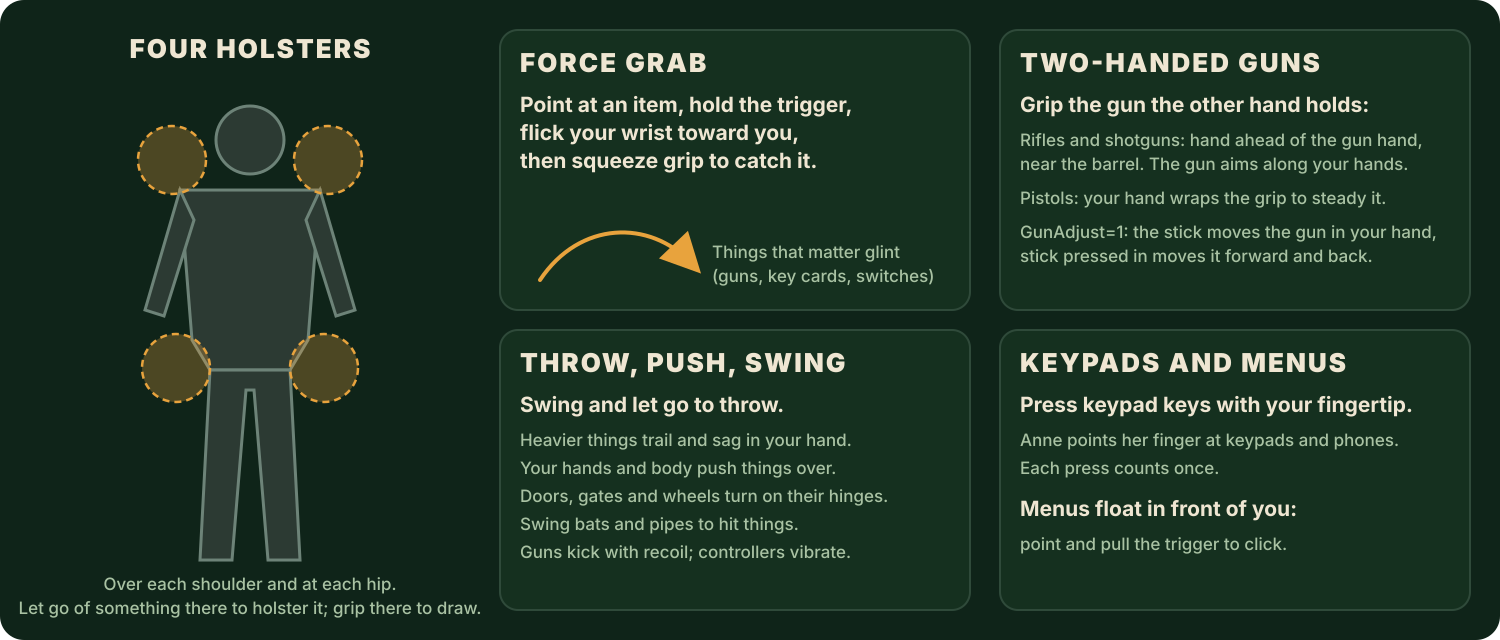
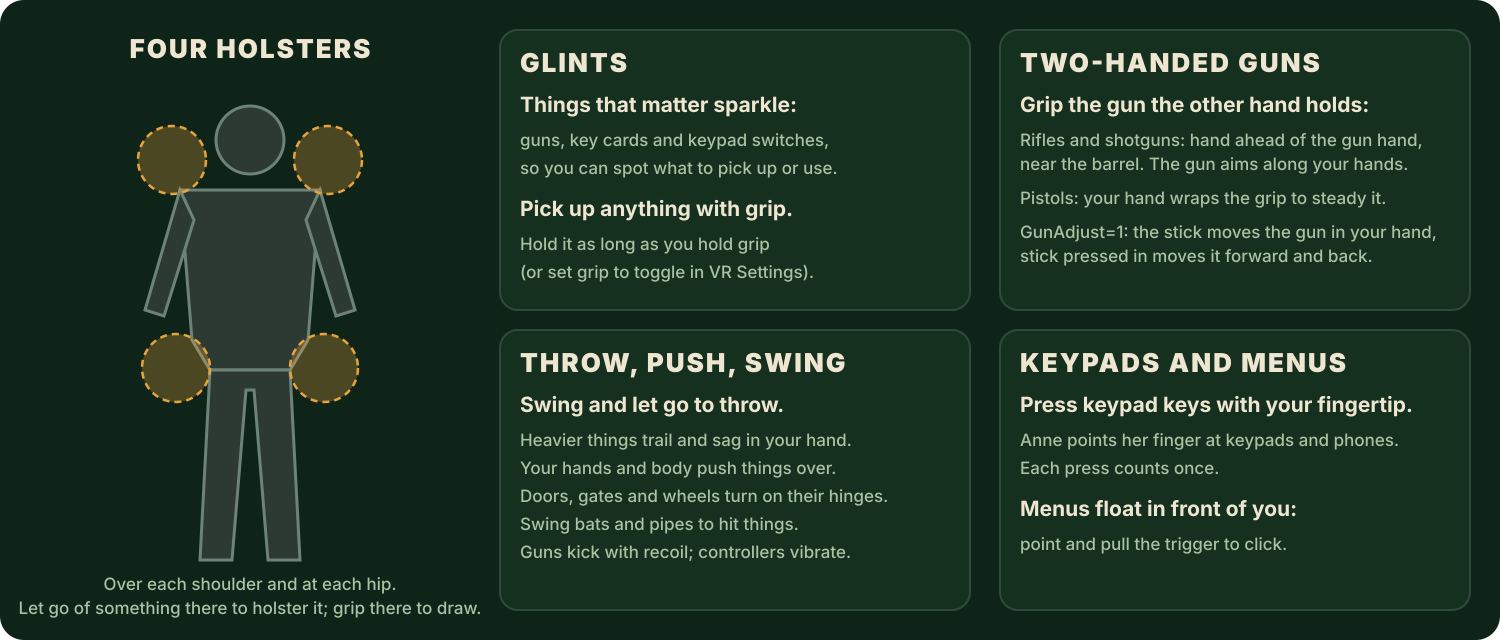
Site B VR docs: force grab removed from the readme, release notes and diagrams
Claude-Session: https://claude.ai/code/session_01FPGfVzkoLwyWwQJoTb7NLJ

Changed region(s): [[0.3373, 0.1562, 0.5827, 0.2812], [0.3373, 0.3125, 0.6133, 0.4375], [0.3373, 0.0625, 0.4907, 0.125]]

diff --git a/README.md b/README.md
@@ -81,7 +81,7 @@ To watch or record, open SteamVR's **Display VR View** window and capture it wit
 | X / □ (Frame: D-pad ↓) | The game's hint screen | A / ✕ | Jump |
 | Y / △ (Frame: D-pad ← ↑ →) | Pause menu | B / ○ (Frame: X, Y or B) | Crouch (toggle) |
 | Grip | Grab and hold | Grip | Grab and hold |
-| Trigger | Fire / use. Empty hand: force grab | Trigger | Fire / use. Empty hand: force grab |
+| Trigger | Fire / use | Trigger | Fire / use |
 
 - The menu button on either controller also opens the pause menu.
 - `LeftHanded=1` swaps the stick and button roles between the hands.
@@ -125,7 +125,6 @@ To watch or record, open SteamVR's **Display VR View** window and capture it wit
   dragged.
 - **Push and knock things over** with your hands and body.
 - **Doors, gates, hatches and wheels** turn on their hinges when you pull them, and stay on.
-- **Force grab:** point at an item, hold the trigger, flick your wrist toward you, then grip to catch it.
 - **Glints** show what you can use: guns, key cards and keypad switches sparkle (setting: *Weapon sparkle*).
 - **Four holsters,** one at each hip and one over each shoulder. Let go of something there to holster it; grip
   there with an empty hand to draw it. Either hand can use any holster, and holstered items move with your body.
@@ -220,7 +219,7 @@ within a couple of seconds, even mid-game, unless the comment says *restart*.
 | `JumpHeight` | `1` = the original game's jump. |
 | `LeftHanded` | Swap the stick and button roles. |
 | `GripToggle` | `1`: press grip once to grab, again to drop. |
-| `ForceGrab`, `TwoHandAim`, `SecondHand` | Turn those features on or off. |
+| `TwoHandAim`, `SecondHand` | Turn those features on or off. |
 | `HolsterRadius`, `HipBack`, `HipDown`, `HipFrontScale` | Where the holsters are and how far they reach. |
 | `Haptics` | Vibration strength (`0` = off). |
 | `ThrowScale` | How much faster than your hand thrown things fly. |

diff --git a/VR-README.md b/VR-README.md
@@ -81,7 +81,7 @@ To watch or record, open SteamVR's **Display VR View** window and capture it wit
 | X / □ (Frame: D-pad ↓) | The game's hint screen | A / ✕ | Jump |
 | Y / △ (Frame: D-pad ← ↑ →) | Pause menu | B / ○ (Frame: X, Y or B) | Crouch (toggle) |
 | Grip | Grab and hold | Grip | Grab and hold |
-| Trigger | Fire / use. Empty hand: force grab | Trigger | Fire / use. Empty hand: force grab |
+| Trigger | Fire / use | Trigger | Fire / use |
 
 - The menu button on either controller also opens the pause menu.
 - `LeftHanded=1` swaps the stick and button roles between the hands.
@@ -125,7 +125,6 @@ To watch or record, open SteamVR's **Display VR View** window and capture it wit
   dragged.
 - **Push and knock things over** with your hands and body.
 - **Doors, gates, hatches and wheels** turn on their hinges when you pull them, and stay on.
-- **Force grab:** point at an item, hold the trigger, flick your wrist toward you, then grip to catch it.
 - **Glints** show what you can use: guns, key cards and keypad switches sparkle (setting: *Weapon sparkle*).
 - **Four holsters,** one at each hip and one over each shoulder. Let go of something there to holster it; grip
   there with an empty hand to draw it. Either hand can use any holster, and holstered items move with your body.
@@ -220,7 +219,7 @@ within a couple of seconds, even mid-game, unless the comment says *restart*.
 | `JumpHeight` | `1` = the original game's jump. |
 | `LeftHanded` | Swap the stick and button roles. |
 | `GripToggle` | `1`: press grip once to grab, again to drop. |
-| `ForceGrab`, `TwoHandAim`, `SecondHand` | Turn those features on or off. |
+| `TwoHandAim`, `SecondHand` | Turn those features on or off. |
 | `HolsterRadius`, `HipBack`, `HipDown`, `HipFrontScale` | Where the holsters are and how far they reach. |
 | `Haptics` | Vibration strength (`0` = off). |
 | `ThrowScale` | How much faster than your hand thrown things fly. |

diff --git a/RELEASE-NOTES.md b/RELEASE-NOTES.md
@@ -46,7 +46,6 @@
   dragged.
 - **Push and knock things over** with your hands and body.
 - **Doors, gates, hatches and wheels** turn on their hinges when you pull them, and stay on.
-- **Force grab:** point at an item, hold the trigger, flick your wrist toward you, then grip to catch it.
 - **Glints** show what you can use: guns, key cards and keypad switches sparkle (setting: *Weapon sparkle*).
 - **Four holsters,** one at each hip and one over each shoulder. Let go of something there to holster it; grip
   there with an empty hand to draw it. Either hand can use any holster, and holstered items move with your body.
